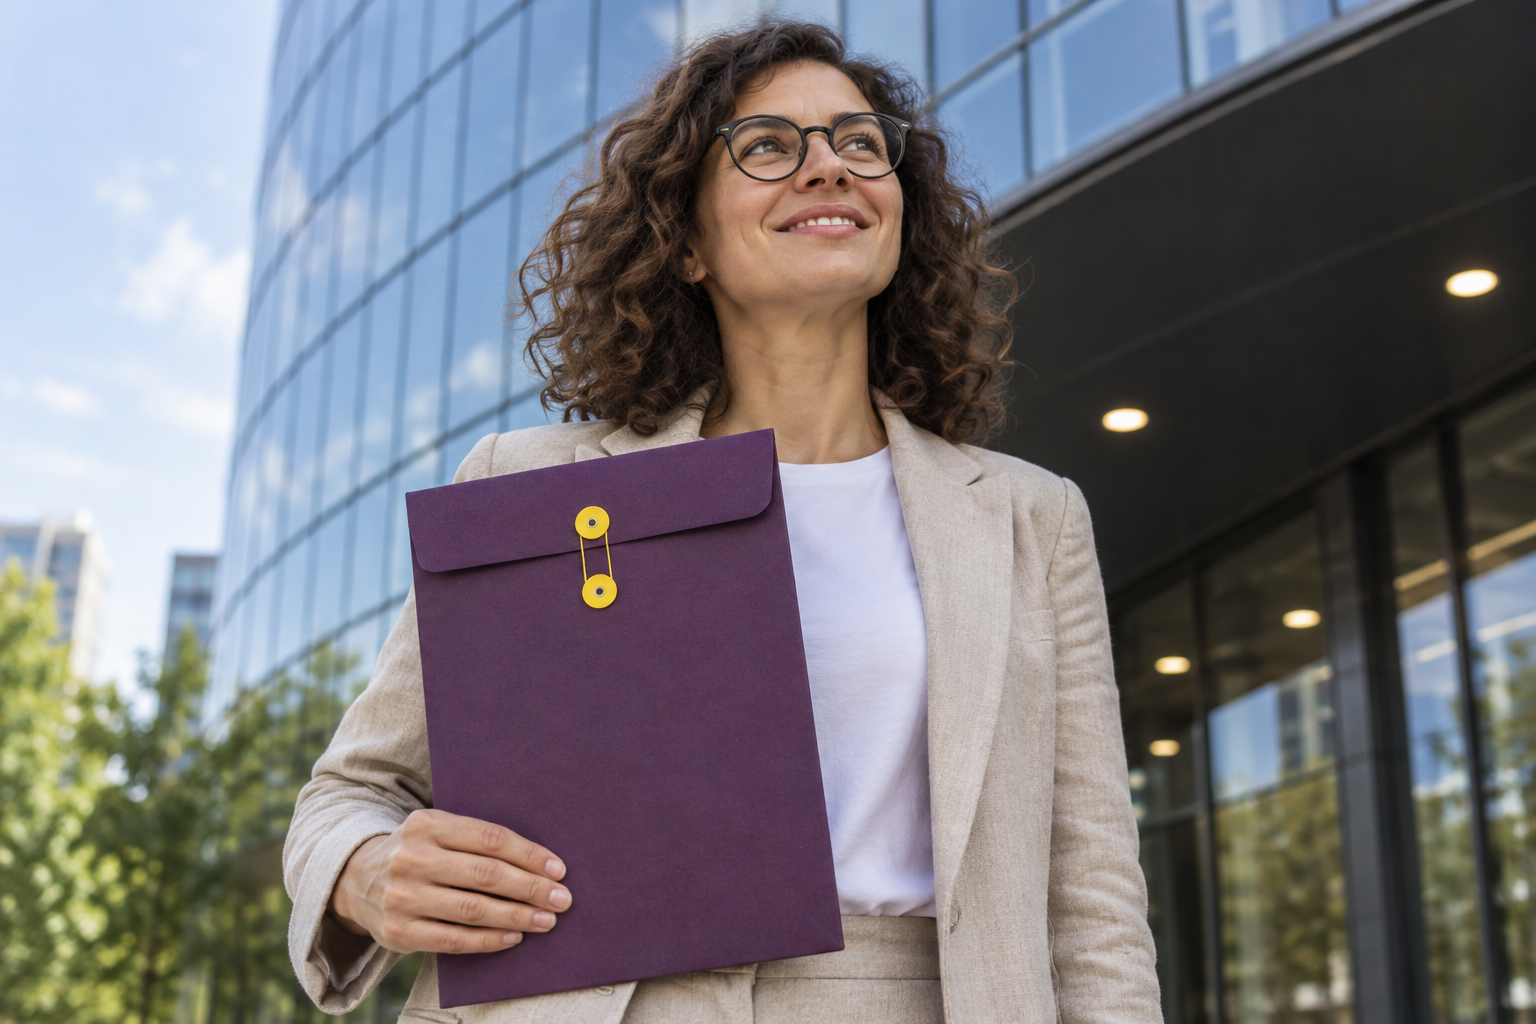
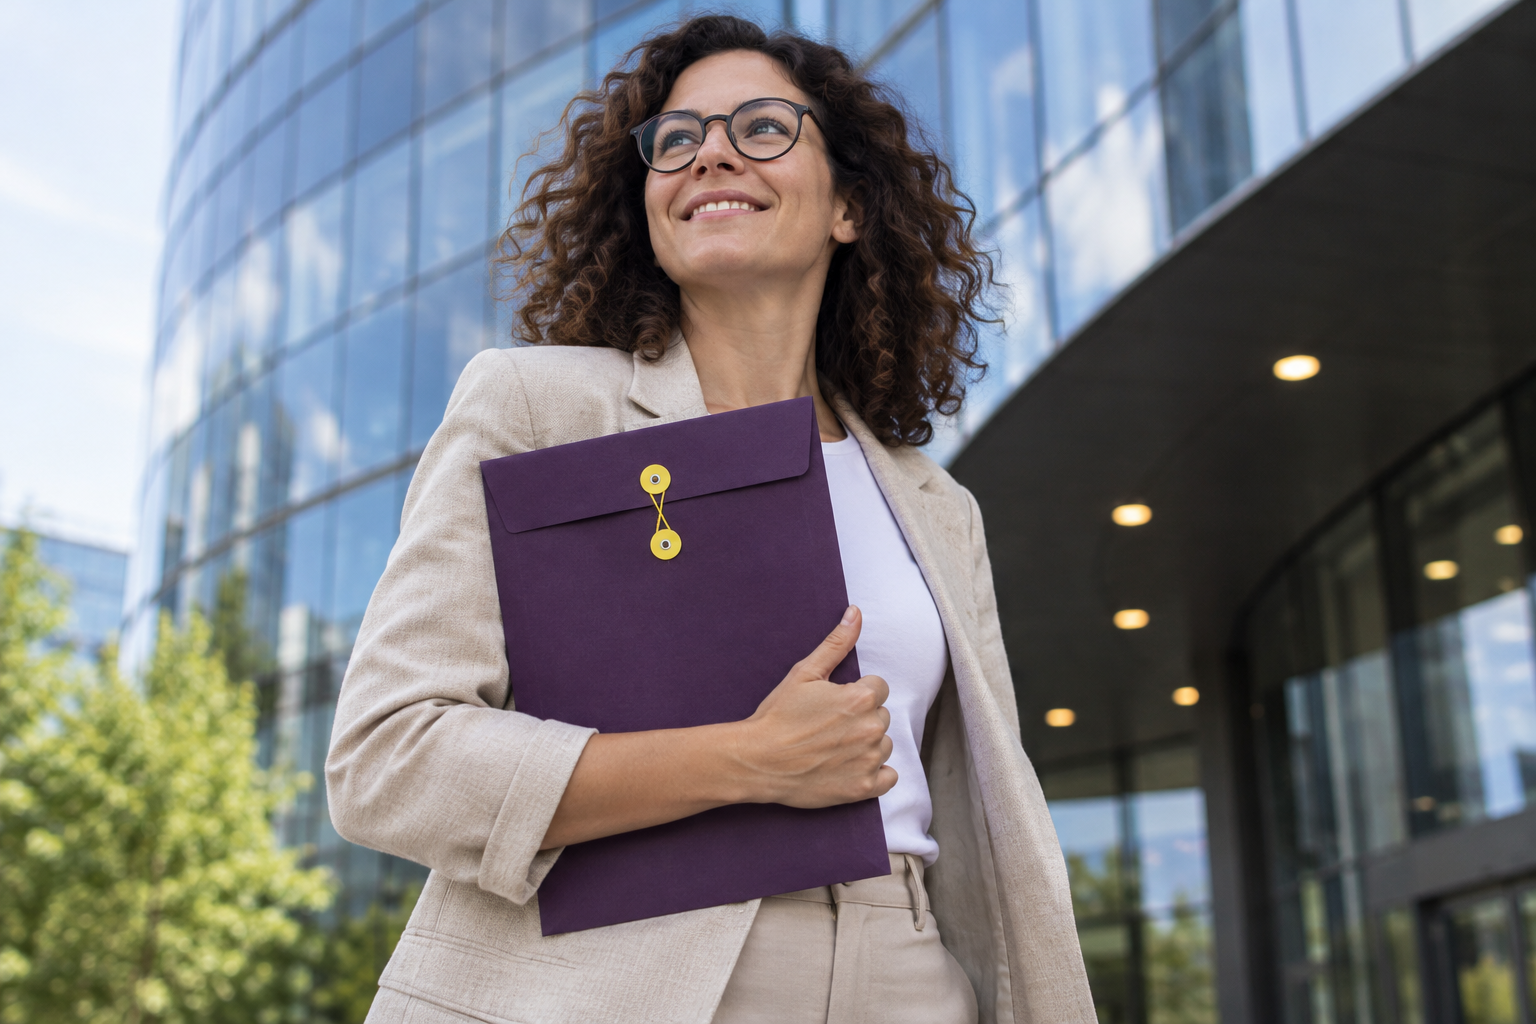
Styupan In use: regenerated photo with the folder hugged in the arm, scattered letters in the folder's corner

diff --git a/styupan.html b/styupan.html
@@ -282,7 +282,7 @@ footer .wrap{display:flex;justify-content:space-between;gap:16px;flex-wrap:wrap}
   <section class="wrap brand-sec" aria-labelledby="use-title">
     <div class="sec-head"><h2 id="use-title">In use</h2><span>Folder and stationery</span></div>
     <figure class="photo-fig">
-      <img src="assets/work/styupan/folder-1200.webp" srcset="assets/work/styupan/folder-1200.webp 1200w, assets/work/styupan/folder-1536.webp 1536w" sizes="(min-width:1320px) 1200px, 92vw" alt="A woman in a light linen jacket outside a glass office building holds a purple Stiupan Translations envelope folder with a yellow button-and-string closure, the mark on the flap and the name Stiupan set large up its right edge." width="1200" height="800" loading="lazy">
+      <img src="assets/work/styupan/folder-1200.webp" srcset="assets/work/styupan/folder-1200.webp 1200w, assets/work/styupan/folder-1536.webp 1536w" sizes="(min-width:1320px) 1200px, 92vw" alt="A woman in a light linen jacket outside a glass office building carries a purple Stiupan Translations envelope folder hugged to her chest, with a yellow button-and-string closure, the mark on the flap, the name Stiupan set large up its right edge and pale letters scattered in the bottom corner." width="1200" height="800" loading="lazy">
     </figure>
     <figure class="panel">
       <div class="desk" role="img" aria-label="Stationery laid flat on a dark purple ground: an A4 letterhead with the logo, a short letter in Norwegian a handwritten signature to the right of the sign-off with the purple round seal stamped over it, a yellow envelope with the lockup and a stripe in purple, and a business card, front in purple with the yellow mark and back also in purple with the yellow lockup (mark, Stiupan Translations, OVERSETTELSESBURÅ) across the top, a name and title on the left, and contact lines below them in bold yellow.">

diff --git a/tools/folder-photo/render.py b/tools/folder-photo/render.py
@@ -1,7 +1,7 @@
 """Brand the folder in the Figma AI photo (base.png) for the Styupan "In use" block.
 
 base.png: generated with Figma AI (gpt-image-2.5), 2026-10-08, a plain purple
-string-and-button envelope folder. This script draws the folder face flat, after
+string-and-button envelope folder, hugged to the chest with the arm around it. This script draws the folder face flat, after
 her Kraft Folder reference (Behance, Uneri Space), warps it onto the folder and
 paints it only where the folder paper shows, so her hand, the buttons and the
 string stay in front.
@@ -19,7 +19,17 @@ W, H = 1000, 1375          # flat folder face; the flap ends near y = 205
 SS = 2                     # supersampling for the flat art
 
 # Folder corners in base.png (TL, TR, BR, BL), measured from the purple mask.
-QUAD = [(406, 493), (774, 430), (843, 947), (440, 1005)]
+QUAD = [(481, 462), (814, 397), (889, 866), (541, 935)]
+
+
+# Letter, centre x, centre y, size, rotation (deg), face. Some are cut by the edges.
+SCATTER = [
+    ("R", 40, 1210, 130, 14, "ct600"), ("A", 165, 1250, 80, -22, "ct600"), ("E", 280, 1205, 100, 35, "ct600"),
+    ("T", 395, 1260, 75, -48, "ct600"), ("S", 520, 1215, 120, 8, "ct700"), ("u", 105, 1335, 105, -30, "ct600"),
+    ("I", 240, 1320, 90, 62, "ct600"), ("V", 360, 1345, 140, -12, "ct600"), ("n", 480, 1330, 80, 40, "ct600"),
+    ("Å", 10, 1320, 95, -8, "ct600"), ("E", 600, 1350, 95, 24, "ct600"), ("B", 190, 1400, 110, -16, "ct700"),
+    ("s", 650, 1240, 70, 50, "ct600"), ("R", 300, 1150, 60, -35, "ct600"), ("O", 60, 1110, 70, 20, "ct600"),
+]
 
 
 def font(name, size):
@@ -50,7 +60,16 @@ def flat_art():
     d.text((70 * SS, 300 * SS), "Stiupan\nTranslations.", font=head, fill=YELLOW, spacing=4 * SS)
     small = font("it500", 19)
     d.text((72 * SS, 480 * SS), "NORSK · ENGLISH · УКРАЇНСЬКА\nРУССКИЙ · DEUTSCH · POLSKI", font=small, fill=YELLOW, spacing=10 * SS)
-    d.text((330 * SS, 1290 * SS), "nortranslations.no", font=font("it600", 20), fill=YELLOW)
+    d.text((72 * SS, 570 * SS), "nortranslations.no", font=font("it600", 20), fill=YELLOW)
+
+    # Scattered letters in the bottom left corner, paper at low opacity (as on the billboard).
+    ghost = (245, 245, 245, 78)
+    for ch, x, y, size, rot, face in SCATTER:
+        f = font(face, size)
+        cell = Image.new("RGBA", (size * 2 * SS, size * 2 * SS), (0, 0, 0, 0))
+        ImageDraw.Draw(cell).text((size * SS, size * SS), ch, font=f, fill=ghost, anchor="mm")
+        cell = cell.rotate(rot, resample=Image.BICUBIC)
+        art.alpha_composite(cell, (x * SS - cell.width // 2, y * SS - cell.height // 2))
     return art.resize((W, H), Image.LANCZOS)
 
 

diff --git a/styupan.md b/styupan.md
@@ -36,7 +36,7 @@ Sources: Instagram [@nortranslations](https://www.instagram.com/nortranslations/
 4. **Colour and type** — Purple #3C1A5B (RGB 60, 26, 91), Yellow #FFF748 (RGB 255, 247, 72), Paper #F5F5F5 (RGB 245, 245, 245), with CMYK as a plain RGB-to-CMYK conversion, marked as an estimate (Purple 34 71 0 64, Yellow 0 3 72 0, Paper 0 0 0 4; not a print-proofed profile); the Crimson Text specimen, laid out as in her reference (a close-up of an open white book with a quote beside it, 2026-09-29): a rendered open book fills the tile, a large purple "Aa" sits on the left, the name, OVERSETTELSESBURÅ and a Norwegian line on the right, the font name small below. The book is a three.js render, no stock photo ([`tools/book-render/open-book.html`](tools/book-render/open-book.html)): 46 curved sheets per side that rise from the gutter and fan out, a ribbon bookmark, soft light averaged over 96 passes, the table fading to white; the two top pages carry a day planner laid out after her reference (a purple Daily Planner spread, 2026-09-29) in the brand colours (purple tabs with yellow labels, pale purple rows, Crimson Text titles) and set up for the head of a translation bureau, in Norwegian: right page *Dagsplan* (Dagens oppdrag with Kunde · Språkpar · Frist, Frister i dag, Å gjøre, Viktige notater), left page *Oppfølging* (Fordeling with Oversetter · Oppdrag · Ord, Fakturering, Ring kunder, Korrektur); camera `cx=120&cy=112&cz=250&tx=10&ty=2&tz=50&fov=42&rot=48&sx=0.42&sy=-0.02`, light `ex=1.12&env=0.2&bounce=0.35&kx=700&ky=420&kz=150`, fog `f0=420&f1=1000`; `assets/work/styupan/type-book-2400.webp` + `-1200.webp`.
 5. **On light and dark** — the lockup (mark + name + OVERSETTELSESBURÅ) on Paper and on Purple, then the round seals (Figma 882:83893 purple, 882:83894 yellow): `seal-purple.svg` on Paper, `seal-yellow.svg` on Purple. In the yellow seal the S is purple, the colour of the ground (2026-09-29).
 6. **Signage** — the office sign, as in her Seraj Law reference. *Waiting for her decision on the image* (a photo she provides, or a rendered mockup).
-7. **In use** — the folder photo (2026-10-08, her request): a new photo generated with Figma AI (gpt-image-2.5, her Pro plan) of a woman outside a glass office building holding a plain purple envelope folder with a yellow button-and-string closure; an AI image, not a real person. The folder face is printed after her reference, Kraft Folder with Bow mockup by Uneri Space on Behance: the mark and OVERSETTELSESBURÅ on the flap, "Stiupan Translations." and the six languages on the left, nortranslations.no at the bottom, and "Stiupan" in large Crimson Text Bold up the right edge, cut by it. Built with [`tools/folder-photo/render.py`](tools/folder-photo/render.py) (source photo `tools/folder-photo/base.png`); `folder-1536.webp` + `folder-1200.webp`. Replaces the earlier ChatGPT photo (Figma frame 881:83891).
+7. **In use** — the folder photo (2026-10-08, her request): a new photo generated with Figma AI (gpt-image-2.5, her Pro plan) of a woman outside a glass office building carrying a plain purple envelope folder with a yellow button-and-string closure, hugged to her chest with her arm around it and her hand gripping its edge (regenerated 2026-10-08, her request: a person carrying a folder holds it in the arm); an AI image, not a real person. The folder face is printed after her reference, Kraft Folder with Bow mockup by Uneri Space on Behance: the mark and OVERSETTELSESBURÅ on the flap, "Stiupan Translations.", the six languages and nortranslations.no on the left; chaotically scattered letters in the bottom left corner, Paper at low opacity, after her sample of the billboard letters; and "Stiupan" in large Crimson Text Bold up the right edge, cut by it. Built with [`tools/folder-photo/render.py`](tools/folder-photo/render.py) (source photo `tools/folder-photo/base.png`); `folder-1536.webp` + `folder-1200.webp`. Replaces the earlier ChatGPT photo (Figma frame 881:83891).
 8. **Stationery** — letterhead, business cards and envelope laid out flat on a dark ground (reference: broot). Built in HTML and CSS from the brand; names and contacts are placeholders, not real people. Letterhead (2026-09-29): the footer divider is purple; a made-up handwritten signature (an SVG scribble, not a real person's) to the right of the sign-off lines, on a layer under the purple round seal (about 21 % of the letterhead width), which is stamped partly over it, where a Norwegian company stamp goes. Envelope (2026-09-29): yellow ground, the lockup and the stripe in purple; OVERSETTELSESBURÅ on it in Crimson Text SemiBold so it reads at that size. Business card back (2026-09-29): purple ground, all text in bold yellow. Layout after her reference (a white mockup card, 2026-09-29): across the top, the full lockup (mark, Stiupan Translations, OVERSETTELSESBURÅ), as in the brand lockup she sent; the name (larger, Crimson Text) and title left-aligned low on the card, close above the contact lines (city, website), no divider.
 9. **Badge and metro** (added 2026-09-29, her request) — two squares side by side, then one wide block, all built in HTML, CSS and SVG from the brand:
    - *Badge on the lanyard* (Paper): a staff badge on a purple lanyard printed "STIUPAN TRANSLATIONS · OVERSETTELSESBURÅ" in yellow (2026-09-29, in place of the tagline); the badge laid out after her reference (an ID card mockup, 2026-09-29): a dark plastic holder with a slotted top tab and side clips; the card white at the top with a placeholder name in two lines (Navn / Etternavn), a short rule and the bureau name Stiupan Translations under it, all in purple; purple below a straight divider, with the large yellow mark (2026-09-29).
